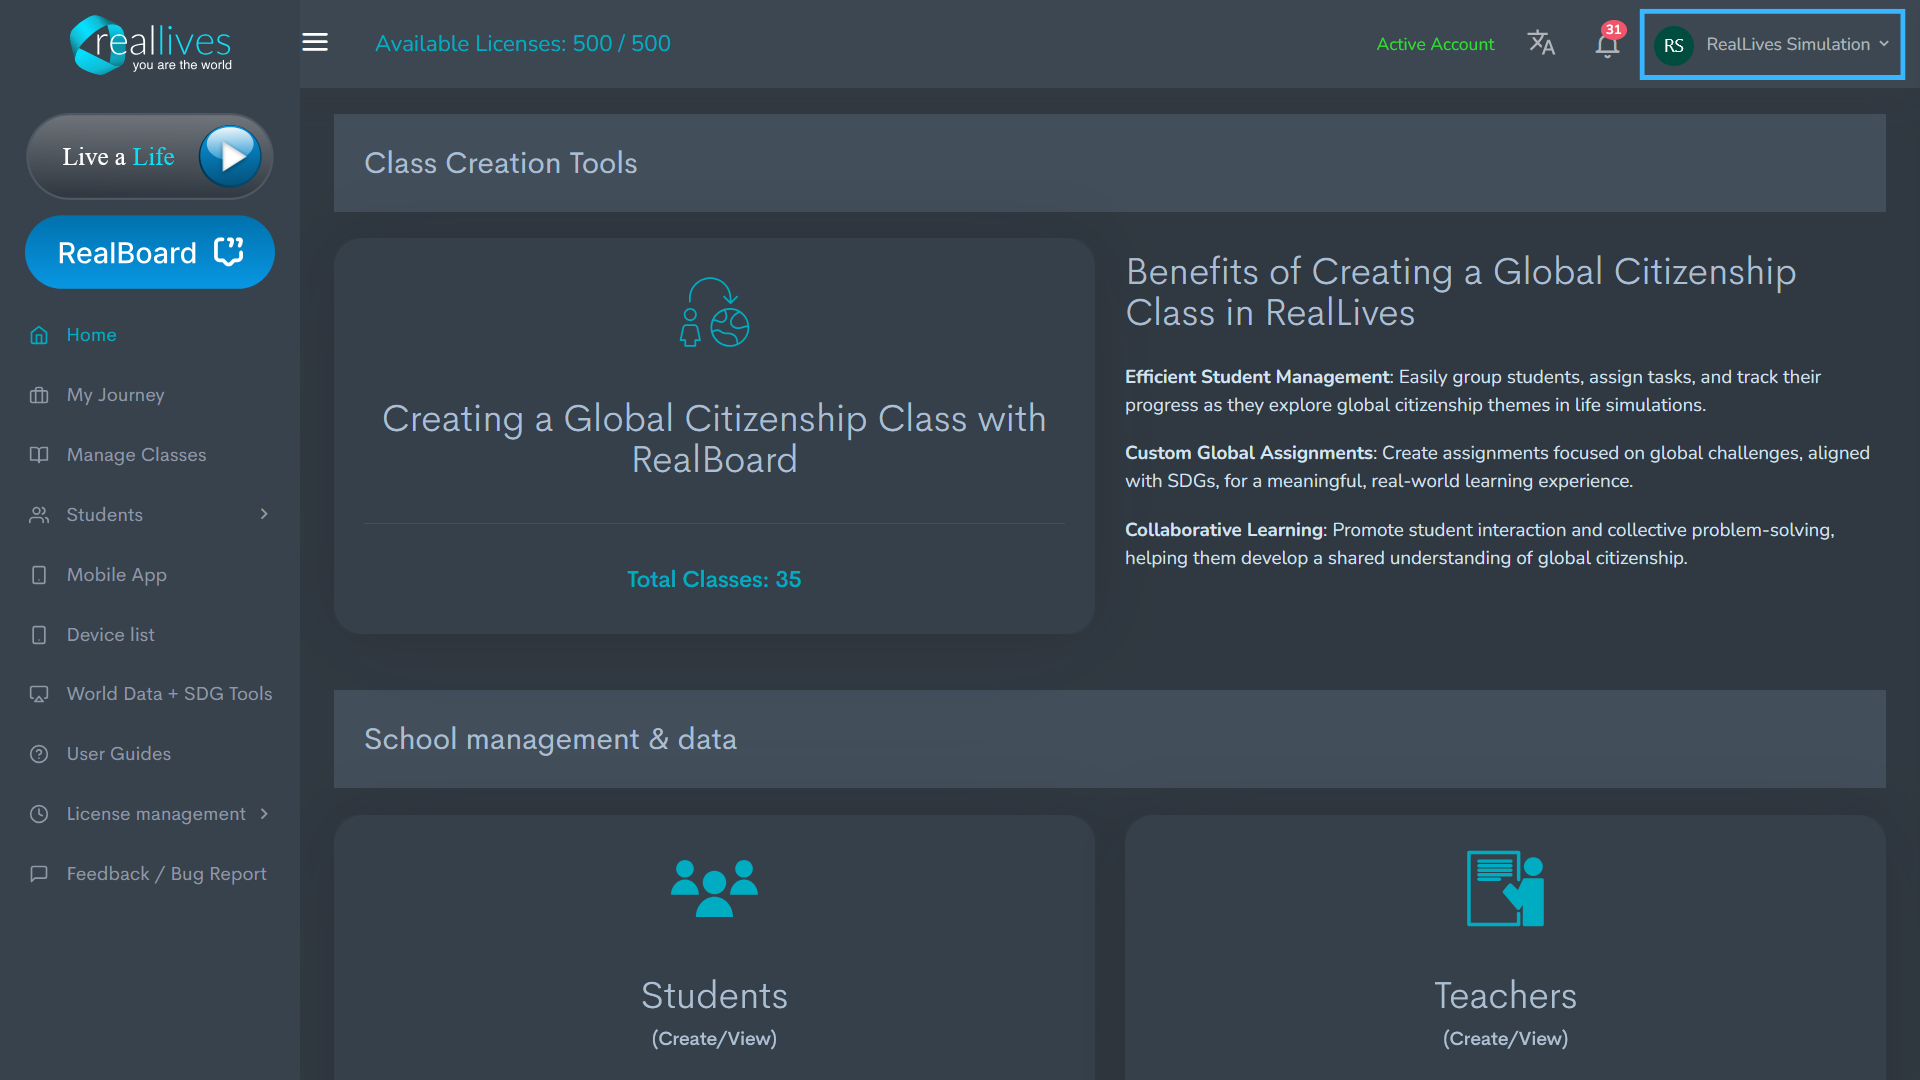
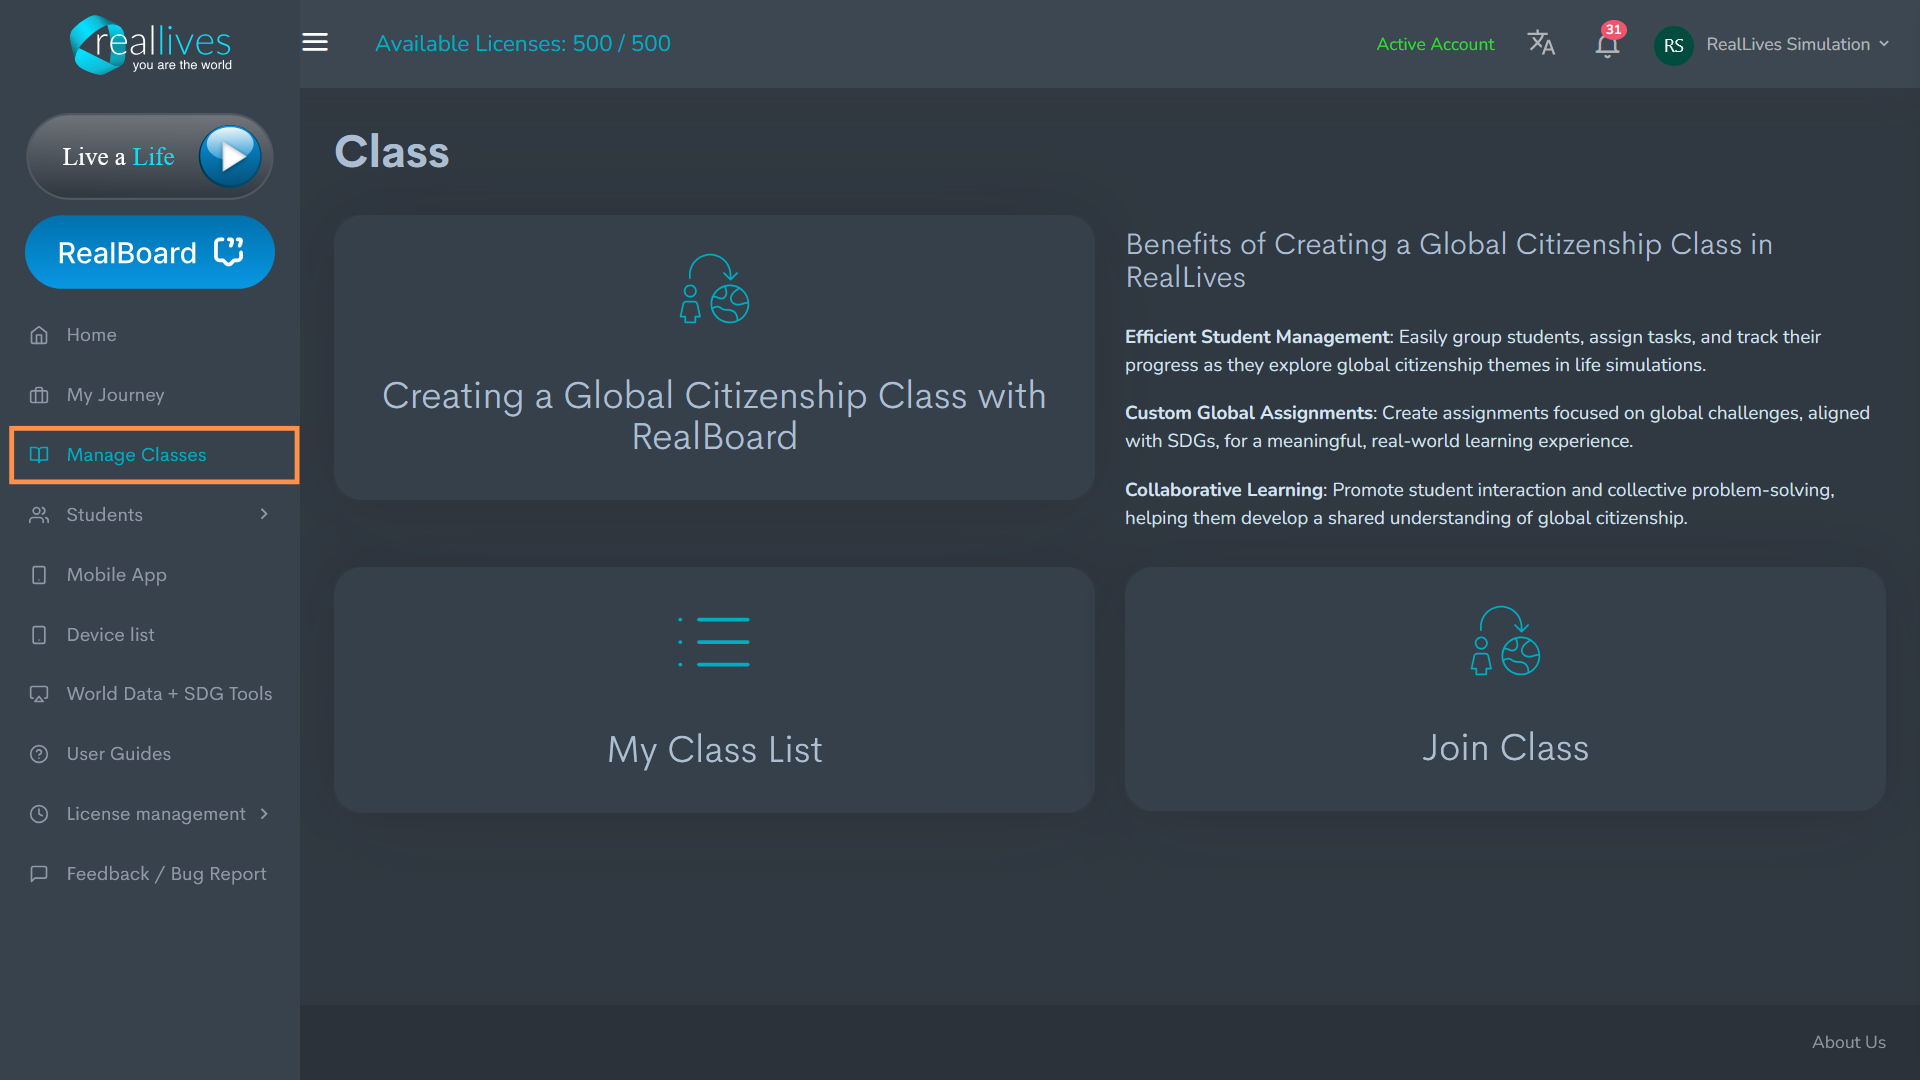
GITBOOK-74: No subject

diff --git a/school-admin/create-a-class-with-realboard.md b/school-admin/create-a-class-with-realboard.md
@@ -8,7 +8,7 @@ If you are unfamiliar with RealBoard, head on to the RealBoard Manual -
 
 ## 1. Creating a Global Citizenship Class with RealBoard
 
-<figure><img src="../.gitbook/assets/Screenshot 2024-10-04 104700.png" alt=""><figcaption></figcaption></figure>
+<figure><img src="../.gitbook/assets/Untitled design(8).png" alt=""><figcaption></figcaption></figure>
 
 ### - Navigating to 'Class Creation Tools'
 
@@ -22,7 +22,7 @@ If you are unfamiliar with RealBoard, head on to the RealBoard Manual -
 
 ## **2. Selecting Class Types in RealLives**
 
-<figure><img src="../.gitbook/assets/Screenshot 2024-10-04 104708.png" alt=""><figcaption></figcaption></figure>
+<figure><img src="../.gitbook/assets/Untitled design(9).png" alt=""><figcaption></figcaption></figure>
 
 ### **- Overview of Class Types**
 
@@ -34,7 +34,7 @@ You will see four different options to create a class, each serving a unique pur
 
 ## **Random Life -**
 
-<figure><img src="../.gitbook/assets/Untitled design(11) (1).png" alt=""><figcaption></figcaption></figure>
+<figure><img src="../.gitbook/assets/Untitled design(10).png" alt=""><figcaption></figcaption></figure>
 
 * **Description:** In this class, students are born into a random country, offering them an unpredictable experience of life. This class type encourages students to compare and contrast their lives with others, fostering critical thinking and promoting diversity of perspective.
 * **Purpose:** Best for promoting discussions on global diversity and enhancing empathy by placing students in unfamiliar life situations.
@@ -44,7 +44,7 @@ You will see four different options to create a class, each serving a unique pur
 
 After clicking **Create**, the **Edit Board** page allows you to customize and configure your class board by naming it and adding sections for students to engage with. Here’s how to use this page effectively
 
-<figure><img src="../.gitbook/assets/Screenshot 2024-10-04 104736.png" alt=""><figcaption></figcaption></figure>
+<figure><img src="../.gitbook/assets/Untitled design(12).png" alt=""><figcaption></figcaption></figure>
 
 ### **- Name your board**
 
@@ -62,7 +62,7 @@ Each class board comes with predefined sections that students will interact with
 
 After choosing the class type and editing the board, this final page allows you to configure key details like the class name, description, students, teachers/professors, and assignment dates.
 
-<div><figure><img src="../.gitbook/assets/Screenshot 2024-10-04 105030.png" alt=""><figcaption></figcaption></figure> <figure><img src="../.gitbook/assets/Screenshot 2024-10-04 105040.png" alt=""><figcaption></figcaption></figure></div>
+<div><figure><img src="../.gitbook/assets/Untitled design(13).png" alt=""><figcaption></figcaption></figure> <figure><img src="../.gitbook/assets/Untitled design(15).png" alt=""><figcaption></figcaption></figure></div>
 
 **Step 1: Enter Class Name**
 
@@ -116,10 +116,11 @@ Once you've added students, teachers/professors, and finalized other details, cl
 
 After successfully creating your class, you will be directed to the **Create/View Classes with Global Citizenship Assignment** page. Here, you can manage and view all the classes you've created or are associated with.
 
-<figure><img src="../.gitbook/assets/Untitled design(5) (2).png" alt=""><figcaption></figcaption></figure>
+Alternately, you can view classes by going to Manage Classes in the sidebar and then clicking on the **My Class List** section.
 
-At the top, you will see a green confirmation bar that reads **"Classes saved successfully."** This confirms that your new class has been successfully created and saved in the system.\
-\\
+<figure><img src="../.gitbook/assets/Untitled design(16).png" alt=""><figcaption></figcaption></figure>
+
+At the top, you will see a green confirmation bar that reads **"Classes saved successfully."** This confirms that your new class has been successfully created and saved in the system.
 
 ## **6. Notifications and Access After Class Creation**
 
@@ -127,14 +128,14 @@ At the top, you will see a green confirmation bar that reads **"Classes saved su
 
 Once a class is created, students who have been added to the class will automatically receive a **notification** in their RealLives account.
 
-<div><figure><img src="../.gitbook/assets/Untitled design(8) (5).png" alt=""><figcaption></figcaption></figure> <figure><img src="../.gitbook/assets/Untitled design(9) (5).png" alt=""><figcaption></figcaption></figure></div>
+<div><figure><img src="../.gitbook/assets/Untitled design(17).png" alt=""><figcaption></figcaption></figure> <figure><img src="../.gitbook/assets/Untitled design(18).png" alt=""><figcaption></figcaption></figure></div>
 
 * This notification informs them that they have been added to a new class (e.g., **Class 9A - Random Country**).
 * Students can click the notification to view the class and begin playing their assigned life simulation.
 
 ### **- Accessing the Class Board for teacher/professors**
 
-<figure><img src="../.gitbook/assets/Untitled design(15).png" alt=""><figcaption></figcaption></figure>
+<figure><img src="../.gitbook/assets/Untitled design(15) (1).png" alt=""><figcaption></figcaption></figure>
 
 teachers/professors can easily access the board they’ve created by clicking the **RealBoard** button on the left sidebar of the dashboard.
 
@@ -149,7 +150,7 @@ Note - Random Life was discussed above.
 
 ## **Specific Country**
 
-<figure><img src="../.gitbook/assets/Untitled design(12) (1).png" alt=""><figcaption></figcaption></figure>
+<figure><img src="../.gitbook/assets/Untitled design(12) (1) (1).png" alt=""><figcaption></figcaption></figure>
 
 * **Description:** teachers/professors can select a specific country for all students to be born in. This is perfect for in-depth explorations of that country’s culture, economy, or societal issues. This class type supports a focused, deep dive into specific countries, ideal for geography, economics, or social studies lessons.
 * **Purpose:** Ideal for lessons that require detailed exploration of a particular region.
@@ -188,7 +189,7 @@ This class type combines real-world global issues with student freedom, allowing
 
 ## **Assignments**
 
-<figure><img src="../.gitbook/assets/Untitled design(13) (1) (1).png" alt=""><figcaption></figcaption></figure>
+<figure><img src="../.gitbook/assets/Untitled design(13) (1) (1) (1).png" alt=""><figcaption></figcaption></figure>
 
 * **Description:** Custom assignments based on topics like economics, culture, history, or any subject of choice. teachers/professors can tailor the class experience by assigning specific objectives, allowing students to engage with RealLives based on curriculum needs.
 * **Purpose:** Best for highly customizable learning experiences focused on specific curriculum requirements.

diff --git a/teacher-professor/create-a-class-with-realboard.md b/teacher-professor/create-a-class-with-realboard.md
@@ -134,7 +134,7 @@ Once a class is created, students who have been added to the class will automati
 
 ### **- Accessing the Class Board for teacher/professors**
 
-<figure><img src="../.gitbook/assets/Untitled design(15).png" alt=""><figcaption></figcaption></figure>
+<figure><img src="../.gitbook/assets/Untitled design(15) (1).png" alt=""><figcaption></figcaption></figure>
 
 teachers/professors can easily access the board they’ve created by clicking the **RealBoard** button on the left sidebar of the dashboard.
 
@@ -149,7 +149,7 @@ Note - Random Life was discussed above.
 
 ## **Specific Country**
 
-<figure><img src="../.gitbook/assets/Untitled design(12) (1).png" alt=""><figcaption></figcaption></figure>
+<figure><img src="../.gitbook/assets/Untitled design(12) (1) (1).png" alt=""><figcaption></figcaption></figure>
 
 * **Description:** teachers/professors can select a specific country for all students to be born in. This is perfect for in-depth explorations of that country’s culture, economy, or societal issues. This class type supports a focused, deep dive into specific countries, ideal for geography, economics, or social studies lessons.
 * **Purpose:** Ideal for lessons that require detailed exploration of a particular region.
@@ -188,7 +188,7 @@ This class type combines real-world global issues with student freedom, allowing
 
 ## **Assignments**
 
-<figure><img src="../.gitbook/assets/Untitled design(13) (1) (1).png" alt=""><figcaption></figcaption></figure>
+<figure><img src="../.gitbook/assets/Untitled design(13) (1) (1) (1).png" alt=""><figcaption></figcaption></figure>
 
 * **Description:** Custom assignments based on topics like economics, culture, history, or any subject of choice. teachers/professors can tailor the class experience by assigning specific objectives, allowing students to engage with RealLives based on curriculum needs.
 * **Purpose:** Best for highly customizable learning experiences focused on specific curriculum requirements.

diff --git a/school-admin/dashboard-layout/manage-classes.md b/school-admin/dashboard-layout/manage-classes.md
@@ -1,2 +1,49 @@
+---
+description: >-
+  The Manage Classes section is designed to help school administrators
+  efficiently create and manage Global Citizenship classes, integrating Real
+  Board for collaborative and impactful learning.
+---
+
 # Manage Classes
 
+<figure><img src="../../.gitbook/assets/Untitled design(6).png" alt=""><figcaption></figcaption></figure>
+
+### **1. Creating a Global Citizenship Class with RealBoard**
+
+This feature allows you to set up classes that leverage RealBoard for enhanced peer-to-peer learning and SDG-based assignments.
+
+* **Purpose:** Promote understanding of global citizenship through collaborative simulations.
+* **Steps:**
+  1. Click on **"Creating a Global Citizenship Class with RealBoard"** to begin.
+  2. Customize the class by aligning it with specific goals or assignments.
+  3. Invite students and assign tasks through RealBoard.
+
+For a detailed guide on how to create a class with RealBoard, check out the link below -&#x20;
+
+{% content-ref url="../create-a-class-with-realboard.md" %}
+[create-a-class-with-realboard.md](../create-a-class-with-realboard.md)
+{% endcontent-ref %}
+
+***
+
+### **2. My Class List**
+
+Provides a centralized view of all the classes you have created or are managing.
+
+* **Benefits:**
+  * Monitor student participation.
+  * Track the progress of assignments.
+  * Manage ongoing and completed classes.
+
+***
+
+### **3. Join Class**
+
+Enables admins or students to join pre-existing classes.
+
+* **How It Works:**
+  * Click **"Join Class"** and enter the provided class code.
+  * Access class content, assignments, and RealBoard discussions seamlessly.
+
+***

diff --git a/school-admin/dashboard-layout/my-journey.md b/school-admin/dashboard-layout/my-journey.md
@@ -10,7 +10,7 @@ description: >-
 
 This section provides a detailed overview of simulation activity, allowing school or university admins to monitor progress, gender distribution, and geographic diversity in RealLives simulations.
 
-<figure><img src="../../.gitbook/assets/Untitled design(12).png" alt=""><figcaption></figcaption></figure>
+<figure><img src="../../.gitbook/assets/Untitled design(12) (1).png" alt=""><figcaption></figcaption></figure>
 
 **Lives in Progress:**&#x20;
 
@@ -33,7 +33,7 @@ Breakdown of the genders represented in simulated lives:
 
 The "Lives by Location" feature in your RealLives Simulation dashboard offers an interactive view of where simulations have been played worldwide. This tool helps you, as a school admin, track activity, analyze diversity, and encourage exploration among students.
 
-<figure><img src="../../.gitbook/assets/Untitled design(13).png" alt=""><figcaption></figcaption></figure>
+<figure><img src="../../.gitbook/assets/Untitled design(13) (1).png" alt=""><figcaption></figcaption></figure>
 
 i] **Map Interface**
 

diff --git a/SUMMARY.md b/SUMMARY.md
@@ -8,6 +8,7 @@
   * [Home](school-admin/dashboard-layout/left-bar.md)
   * [My Journey](school-admin/dashboard-layout/my-journey.md)
   * [Manage Classes](school-admin/dashboard-layout/manage-classes.md)
+  * [Students](school-admin/dashboard-layout/students.md)
 * [Live a Life](<README (1).md>)
 * [Home Page](school-admin/home-page.md)
 * [Create a class with RealBoard](school-admin/create-a-class-with-realboard.md)

diff --git a/school-admin/dashboard-layout/left-bar.md b/school-admin/dashboard-layout/left-bar.md
@@ -6,7 +6,7 @@ description: >-
 
 # Home
 
-<figure><img src="../../.gitbook/assets/Untitled design(10).png" alt=""><figcaption></figcaption></figure>
+<figure><img src="../../.gitbook/assets/Untitled design(10) (1).png" alt=""><figcaption></figcaption></figure>
 
 <figure><img src="../../.gitbook/assets/Untitled design(11).png" alt=""><figcaption><p>After scrolling down the home page</p></figcaption></figure>
 

diff --git a/school-admin/dashboard-layout/students.md b/school-admin/dashboard-layout/students.md
@@ -1,0 +1,9 @@
+---
+description: >-
+  The Students section allows school administrators to efficiently manage
+  student accounts, import students into the system, and monitor registration
+  status.
+---
+
+# Students
+
